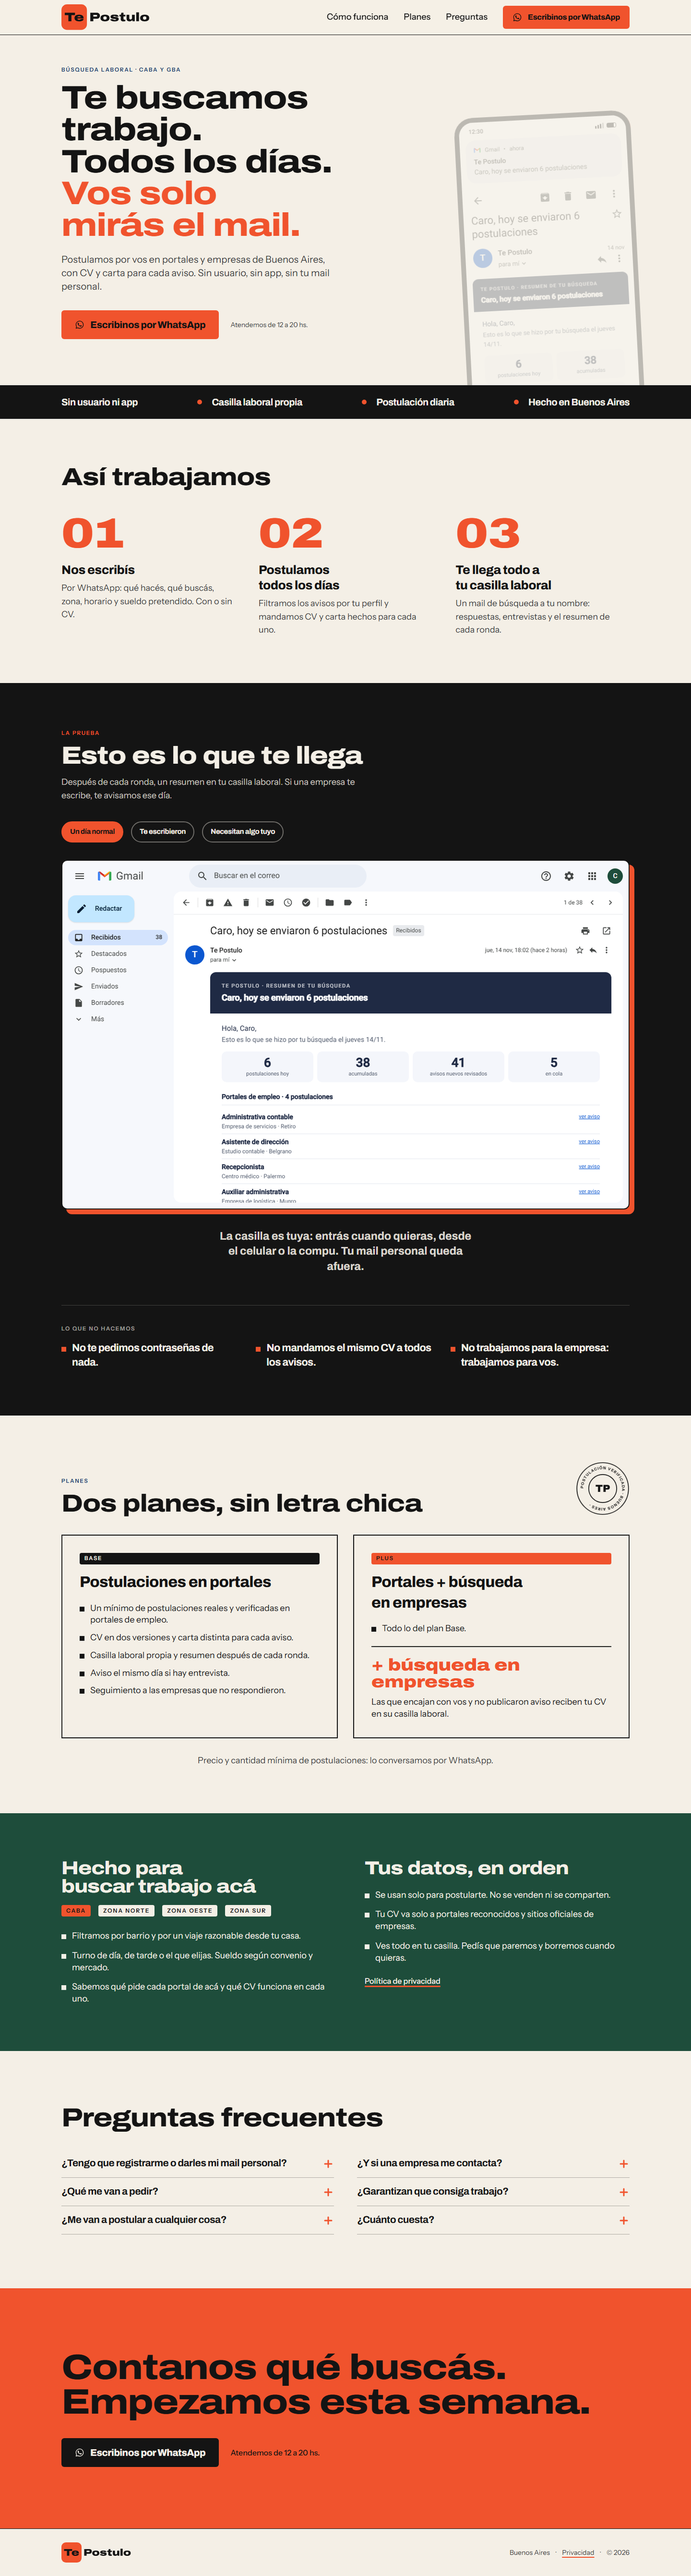
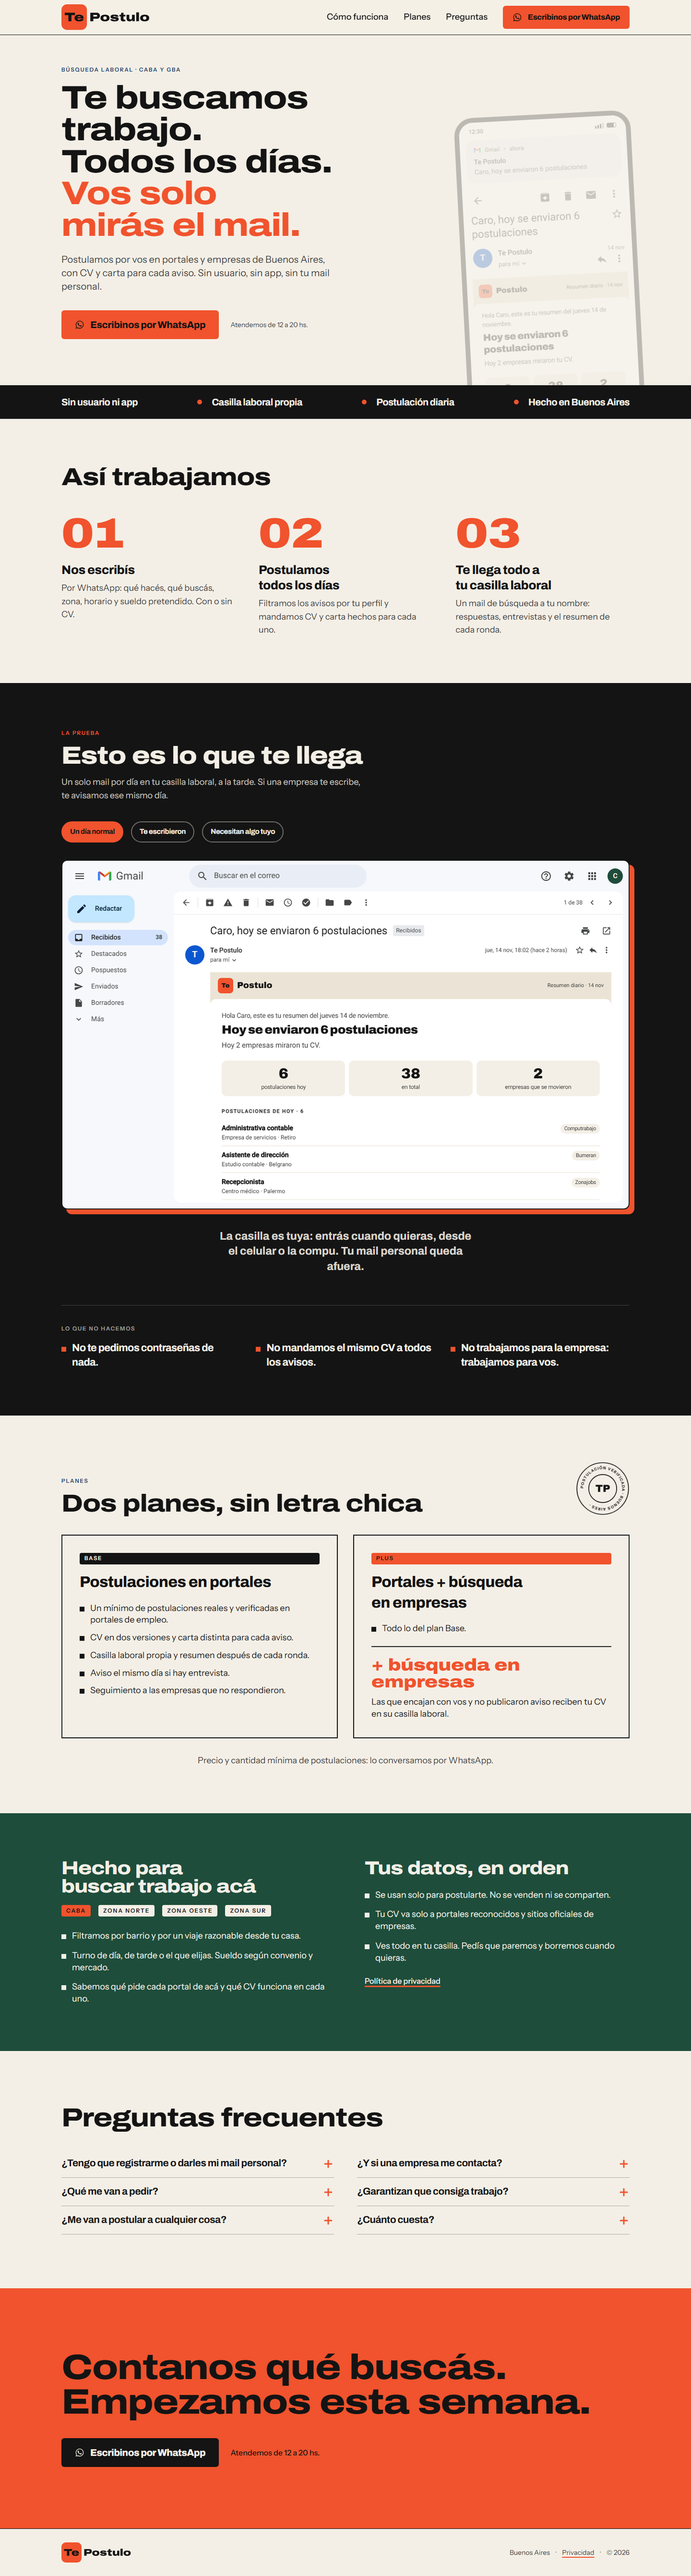
docs(readme): capturas actualizadas y sección del mail diario
Las imágenes de docs/img se regeneraron desde el build actual (logo y maqueta del resumen nuevos). El README explica la estructura del mail diario y muestra la maqueta en móvil y escritorio. La guía de contribución pide regenerar las capturas cuando cambia algo visual.

diff --git a/CHANGELOG.md b/CHANGELOG.md
@@ -11,6 +11,7 @@ Todos los cambios relevantes del sitio se documentan acá. El formato sigue
   una frase con lo importante, bloque "Para vos" con lo que depende de la persona, tres cifras (hoy, total, empresas que se movieron),
   postulaciones del día con el portal, movimientos de empresas y totales. Misma paleta y logo que el sitio.
 - Texto de la sección del mail: "un solo mail por día, a la tarde".
+- README: capturas regeneradas y sección "El mail diario, tal como llega" con la maqueta en móvil y escritorio.
 
 ## [1.0.0] - 2026-10-23
 

diff --git a/CONTRIBUTING.md b/CONTRIBUTING.md
@@ -53,4 +53,5 @@ style(logo): margen interior del cuadrado de 0,40 a 0,36 cap
 npm run check   # lint, build y chequeo de tipos (el build genera los tipos de rutas que usa tsc)
 ```
 
-Si el cambio es visual, adjuntar una captura en móvil y otra en escritorio.
+Si el cambio es visual, adjuntar una captura en móvil y otra en escritorio, y regenerar las imágenes de `docs/img/`
+(portada, home y sección del mail) para que el README muestre el sitio tal como está.
